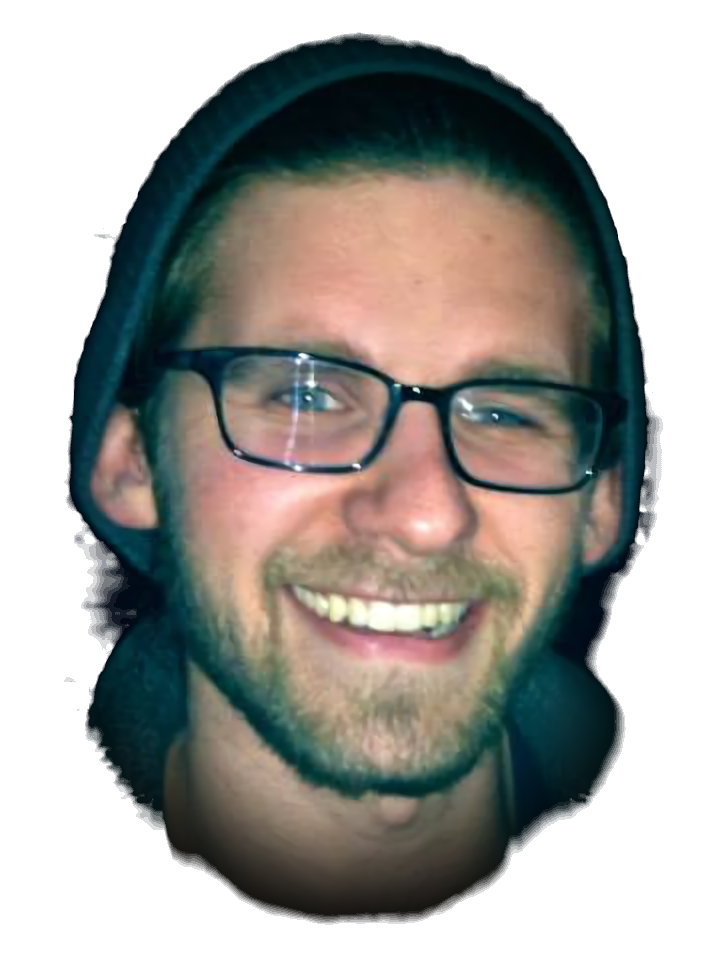
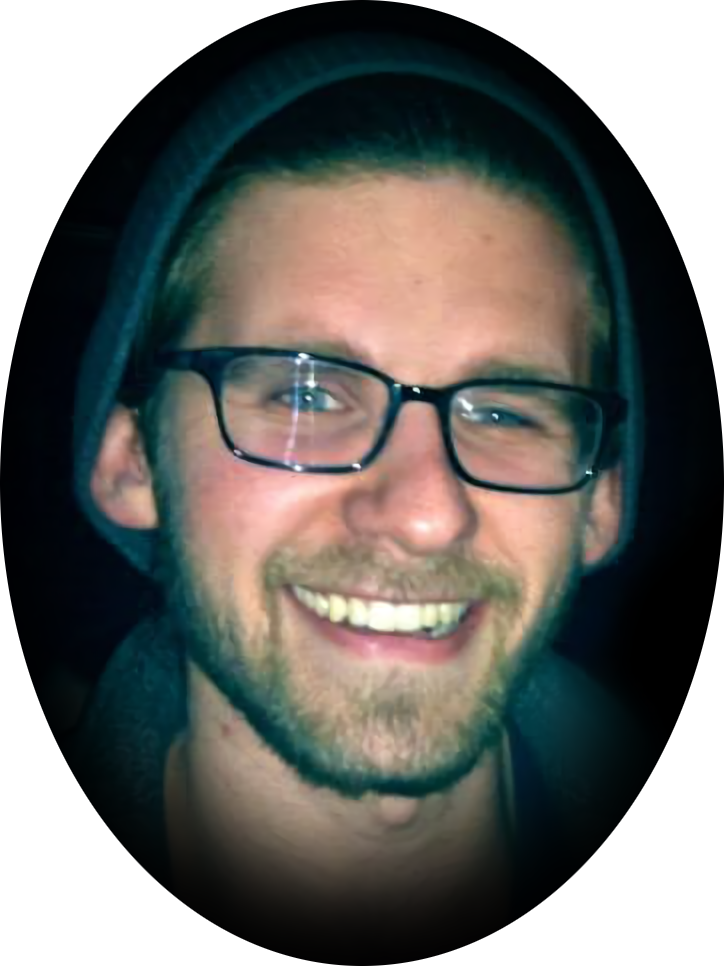
update image and change gh-pages build folder

Changed region(s): [[0.0, 0.0, 1.0, 1.0]]

diff --git a/src/content_option.js b/src/content_option.js
@@ -16,7 +16,7 @@ const introdata = {
         + "and deploying software in many industries. I am passionate about building clean, "
         + "scalable applications. I enjoy working collaboratively to develop systems that bring"
         + "value to a company as quickly as possible",
-    your_img_url: "https://avatars.githubusercontent.com/u/9341852",
+    your_img_url: "https://raw.githubusercontent.com/TimSippell/timsippell.github.io/main/src/assets/images/me_up_alpha.png",
 };
 
 const dataabout = {
